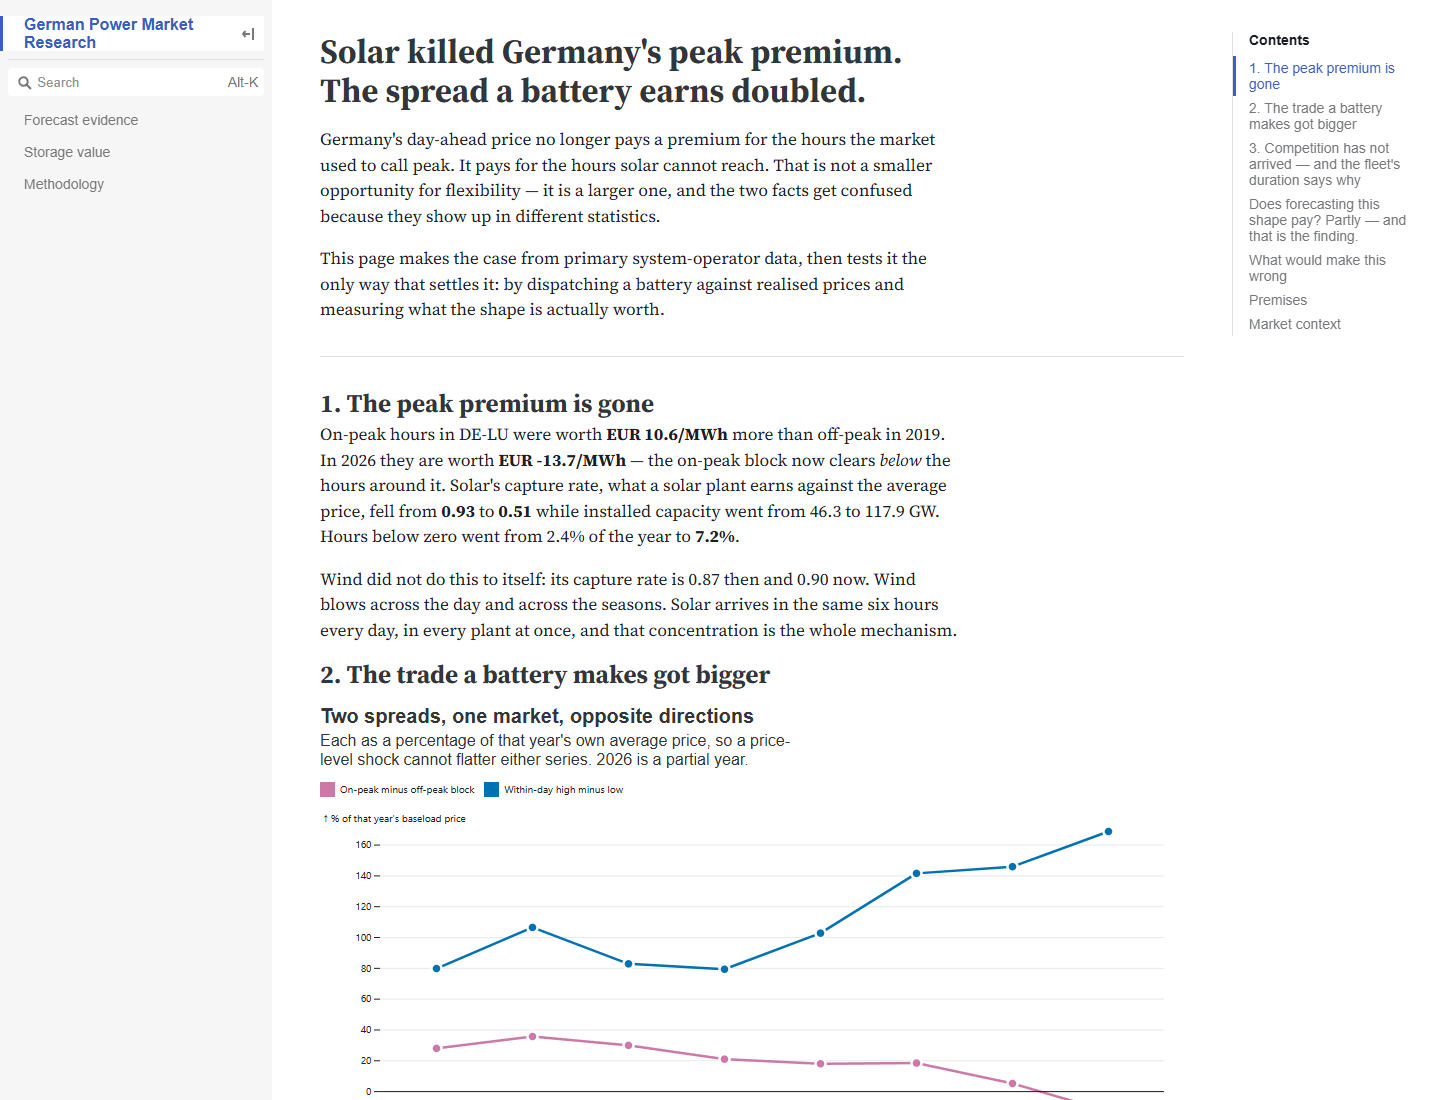
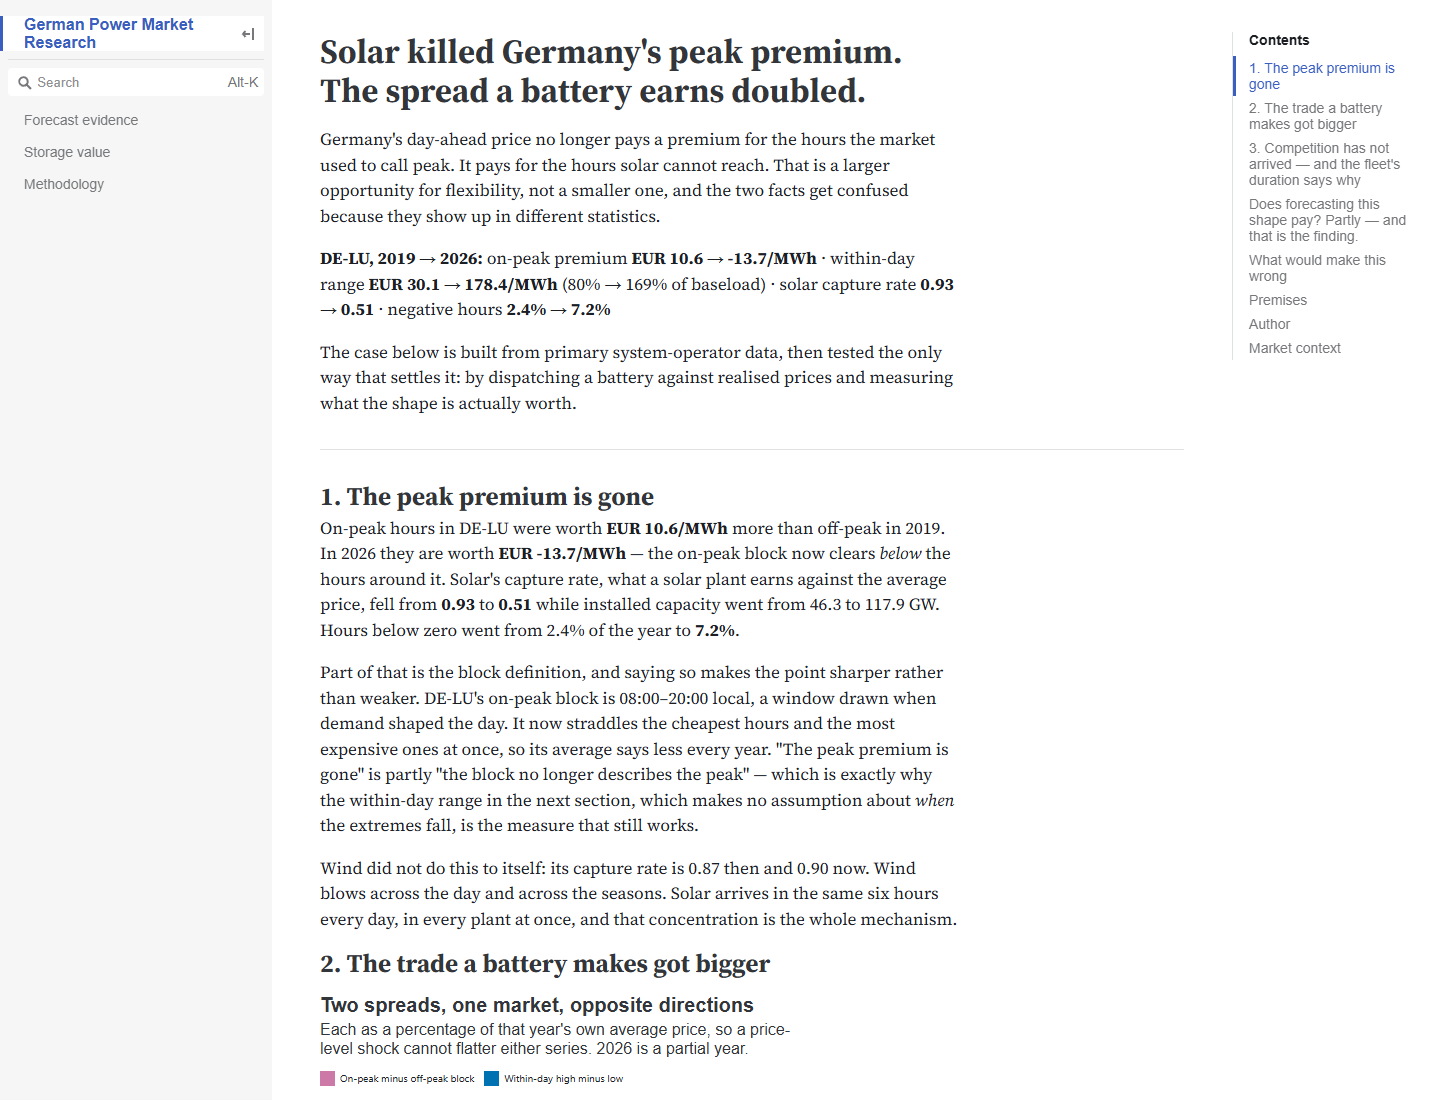
docs: answer the three objections the published site invited
An adversarial read of the live version found three places where a power-market
analyst would have pushed back, and all three had better answers sitting in the
committed data.

The page argued 2022 was "a price-level shock" while its own table showed 2022
as the best year for the battery, 487 against 451 EUR/MW/day, and never
acknowledged it. It now states that first and makes the real argument: 2026
reaches 95% of 2022's absolute daily range on a baseload price 55% lower, so
this spread does not leave with the gas price.

It argued storage competition had not arrived without mentioning the ~9.9 GW of
pumped hydro that arbitrages the same spread and has been flat since 2011 --
which is not a counterexample but the mechanism, since the capable fleet stood
still while the spread widened.

And it inferred household-storage composition from a duration ratio without
saying so. The inference now carries its evidence (duration held near 1.5 hours
through a fivefold build-out), its limitation (the provider publishes no
residential/grid-scale split) and the signal against it (1.47 to 1.56 hours in
two years).

Also: the 08:00-20:00 block definition is named as part of why the peak premium
reads as gone; the partial year's seasonal bias is quantified (+3.5% to +5.2%)
instead of labelled; the battery's total gross margin (~EUR 97,000/MW/year) gives
the forecast's EUR 4,400 a denominator; the page says why a forecast worth 5% was
[…]

diff --git a/site/index.md b/site/index.md
@@ -10,6 +10,19 @@ const yearly = [...await FileAttachment("data/capacity_price_yearly.parquet").pa
   .sort((a, b) => a.year.localeCompare(b.year));
 const shape = [...await FileAttachment("data/price_shape.parquet").parquet()];
 const marginYearly = [...await FileAttachment("data/battery_margin_yearly.parquet").parquet()];
+const capacity = [...await FileAttachment("data/capacity.parquet").parquet()];
+const yearlyCap = capacity.filter((d) => d.time_step === "yearly" && !d.is_planned);
+const capAt = (technology, period) => yearlyCap.find((d) => d.technology === technology && String(d.period) === period);
+const pumped = yearlyCap
+  .filter((d) => d.technology === "Hydro pumped storage")
+  .sort((a, b) => String(a.period).localeCompare(String(b.period)));
+const pumpedFirst = pumped[0];
+const pumpedLast = pumped[pumped.length - 1];
+const fleetHours = (period) => {
+  const power = capAt("Battery storage (power)", period);
+  const energy = capAt("Battery storage (capacity)", period);
+  return power && energy && power.value ? energy.value / power.value : null;
+};
 const first = yearly[0];
 const last = yearly[yearly.length - 1];
 const latestFull = yearly[yearly.length - 2];
@@ -19,6 +32,7 @@ const foresight4 = marginYearly
   .sort((a, b) => a.year.localeCompare(b.year));
 const fleetFirst = foresight4[0];
 const fleetLast = foresight4[foresight4.length - 1];
+const foresight = (period) => foresight4.find((d) => d.year === period);
 const eur = (v) => v.toLocaleString("en", {maximumFractionDigits: 0});
 const num = (v) => v.toFixed(1);
 const pct = (v) => `${v.toFixed(0)}%`;
@@ -26,12 +40,19 @@ const rate = (v) => v.toFixed(2);
 ```
 
 Germany's day-ahead price no longer pays a premium for the hours the market used
-to call peak. It pays for the hours solar cannot reach. That is not a smaller
-opportunity for flexibility — it is a larger one, and the two facts get confused
+to call peak. It pays for the hours solar cannot reach. That is a larger
+opportunity for flexibility, not a smaller one, and the two facts get confused
 because they show up in different statistics.
 
-This page makes the case from primary system-operator data, then tests it the
-only way that settles it: by dispatching a battery against realised prices and
+**DE-LU, ${first.year} → ${last.year}:** on-peak premium **EUR ${num(first.spread)}
+→ ${num(last.spread)}/MWh** · within-day range **EUR ${num(first.intraday_spread)}
+→ ${num(last.intraday_spread)}/MWh** (${pct(first.intraday_spread_pct_of_price)}
+→ ${pct(last.intraday_spread_pct_of_price)} of baseload) · solar capture rate
+**${rate(first.solar_capture_rate)} → ${rate(last.solar_capture_rate)}** ·
+negative hours **${num(first.negative_pct)}% → ${num(last.negative_pct)}%**
+
+The case below is built from primary system-operator data, then tested the only
+way that settles it: by dispatching a battery against realised prices and
 measuring what the shape is actually worth.
 
 ---
@@ -47,6 +68,14 @@ price, fell from **${rate(first.solar_capture_rate)}** to
 ${num(first.solar_capacity_gw)} to ${num(last.solar_capacity_gw)} GW. Hours
 below zero went from ${num(first.negative_pct)}% of the year to
 **${num(last.negative_pct)}%**.
+
+Part of that is the block definition, and saying so makes the point sharper
+rather than weaker. DE-LU's on-peak block is 08:00–20:00 local, a window drawn
+when demand shaped the day. It now straddles the cheapest hours and the most
+expensive ones at once, so its average says less every year. "The peak premium
+is gone" is partly "the block no longer describes the peak" — which is exactly
+why the within-day range in the next section, which makes no assumption about
+*when* the extremes fall, is the measure that still works.
 
 Wind did not do this to itself: its capture rate is
 ${rate(first.wind_capture_rate)} then and ${rate(last.wind_capture_rate)} now.
@@ -120,19 +149,37 @@ than before. A battery charges in a trough that did not used to exist and
 discharges into a peak that got sharper.
 
 Dispatching a 1 MW / 4 MWh battery against realised DE-LU prices with perfect
-foresight and one cycle a day puts a number on it:
+foresight and one cycle a day puts a number on it. EUR/MW/d is that battery's
+margin per megawatt per day; GW and GWh are Germany's installed battery fleet
+that year:
 
 ```js
 Inputs.table(
   foresight4.map((d) => ({
     Year: d.year === last.year ? `${d.year} (partial)` : d.year,
-    "EUR/MW/day": Math.round(d.eur_per_mw_day),
-    "Fleet GW": d.battery_power_gw,
-    "Fleet GWh": d.battery_energy_gwh,
+    "EUR/MW/d": Math.round(d.eur_per_mw_day),
+    GW: d.battery_power_gw,
+    GWh: d.battery_energy_gwh,
   })),
-  {format: {"Fleet GW": num, "Fleet GWh": num}, layout: "auto", rows: 12}
+  {format: {GW: num, GWh: num}, layout: "auto", rows: 12}
 )
 ```
+
+**${crisis.year} is still the best year in the table, and that is not a
+contradiction.** A battery is paid in euros, so ${crisis.year}'s EUR
+${eur(foresight(crisis.year).eur_per_mw_day)}/MW/day beats ${last.year}'s EUR
+${eur(fleetLast.eur_per_mw_day)}. The claim is not that today is richer than the
+gas crisis. It is that today's spread is reached from a *completely different
+place*: ${last.year} delivers **${pct((last.intraday_spread / crisis.intraday_spread) * 100)}
+of ${crisis.year}'s absolute daily range on a baseload price
+${pct(Math.abs(last.baseload_price / crisis.baseload_price - 1) * 100)} lower**.
+
+That distinction is the whole commercial argument. ${crisis.year}'s spread came
+from an expensive, volatile marginal unit, and it left with the gas price.
+${last.year}'s comes from the shape of the day, which is set by an installed
+base that is still being built. A spread that depends on a fuel shock is one a
+lender discounts; a spread that depends on 118 GW of solar is one they can
+underwrite.
 
 ## 3. Competition has not arrived — and the fleet's duration says why
 
@@ -140,20 +187,61 @@ Germany's battery fleet grew from ${num(fleetFirst.battery_power_gw)} GW to
 **${num(fleetLast.battery_power_gw)} GW** across this sample and the arbitrage
 value per MW did not compress. It rose.
 
-The fleet's own numbers suggest the reason. At
-${num(fleetLast.battery_power_gw)} GW and ${num(fleetLast.battery_energy_gwh)}
-GWh, its average duration is about
-**${(fleetLast.battery_energy_gwh / fleetLast.battery_power_gw).toFixed(1)}
-hours** — the signature of household storage behind the meter, sized to shift a
-household's own evening consumption, not of grid-scale assets bidding into the
-same midday trough this study trades. Capacity counted in gigawatts is not the
-same as capacity competing for this spread.
+**First, the incumbent nobody counts.** Germany has roughly
+${num(pumpedLast.value)} GW of pumped hydro arbitraging this exact spread, and it
+is not new: ${num(pumpedFirst.value)} GW in ${pumpedFirst.period}, the earliest
+year this provider's series covers, and essentially flat every year since. Storage competition did not begin with batteries. What that
+flatness means is that the incumbent fleet is not what changed: the spread
+widened while the longest-duration, most capable arbitrage fleet in the market
+stood still.
 
-This is an observation about a growing fleet, not a fitted competition model.
+**Second, the batteries that did arrive are the wrong shape for this trade.** At
+${num(fleetLast.battery_power_gw)} GW and ${num(fleetLast.battery_energy_gwh)}
+GWh, the fleet's average duration is about
+**${fleetHours(last.year).toFixed(2)} hours**. More telling than the level is
+that it barely moved while the fleet grew more than fivefold. GW and GWh are
+installed battery power and energy; Hours is the ratio, the fleet's average
+duration:
+
+```js
+Inputs.table(
+  ["2022", "2023", "2024", "2025", last.year].map((period) => ({
+    Year: period === last.year ? `${period} (partial)` : period,
+    GW: capAt("Battery storage (power)", period).value,
+    GWh: capAt("Battery storage (capacity)", period).value,
+    Hours: fleetHours(period),
+  })),
+  {
+    format: {
+      GW: num,
+      GWh: num,
+      Hours: (v) => v.toFixed(2),
+    },
+    layout: "auto",
+    rows: 6,
+  }
+)
+```
+
+A fleet whose duration holds near 1.5 hours through a fivefold build-out is not
+changing composition — it is adding more of the same thing. Roughly 1.5 hours is
+what a behind-the-meter home system is sized for: shifting a household's own
+evening consumption, not bidding a four-hour midday trough. Gigawatts installed
+is not the same as capacity competing for this spread.
+
+**What this argument rests on, and what would break it.** The provider publishes
+the fleet as one aggregate and does not split residential from grid-scale, so
+the composition here is inferred from the duration ratio rather than observed
+directly. The inference is testable and the register that would settle it, the
+Marktstammdatenregister, is outside this project's ingestion. Read the last two
+rows as the early signal against the argument: duration has ticked from
+${fleetHours("2024").toFixed(2)} to ${fleetHours(last.year).toFixed(2)} hours,
+which is what grid-scale entry looks like when it starts.
+
 Annual data cannot separate a fleet effect from the gas-price unwind or the
-weather. What it does establish is that compression has not yet reached the
-price at a fleet size where a shallow-duration explanation fits the data better
-than the absence of any effect at all.
+weather either. What the data does establish is narrow and worth stating plainly:
+compression has not yet reached the price, at a fleet size where a
+shallow-duration explanation fits better than no effect at all.
 
 ---
 
@@ -184,6 +272,11 @@ alternative — EUR ${num(ridgeScore.mae)}/MWh against EUR
 ${num(bestBaseline.mae)}/MWh, over ${run.scored_hours.toLocaleString("en")}
 scored hours.
 
+For scale, that battery's whole gross margin under Ridge is about **EUR
+${eur(base4.profit_eur_mw / sampleYears)}/MW per year** over the sample, before
+any operating, degradation or capital cost. Against that total, the forecast's
+contribution is the part worth arguing about.
+
 Converted into dispatch, that skill is worth **EUR
 ${eur(base4.incremental_vs_best_naive_eur_mw / sampleYears)}/MW per year**
 (EUR ${eur(base4.mean_daily_incremental_eur_mw)}/MW per day) more than repeating
@@ -196,6 +289,15 @@ deviation, which is what a forecast adds. Ridge loses to that naive on
 
 That ratio is the honest commercial summary, and it points away from where the
 effort went: **the shape is the asset; the forecast is a margin on top of it.**
+
+Which raises a fair question: why build the forecast at all? Because the
+number above is only trustworthy if the protocol producing it is. The 12:00
+gate, the vintage discipline and the walk-forward boundaries are what stop a
+model from quietly scoring itself on information no bidder held, and they are
+what turn "our model beats the market" into a claim someone can check. That
+discipline is the transferable part, and it is the reason this project publishes
+where the model loses as prominently as where it wins.
+
 Protocol and failure modes on the [forecast page](./forecast); dispatch, costs,
 stresses and downside on the [storage page](./battery).
 
@@ -206,7 +308,10 @@ stresses and downside on the [storage page](./battery).
   unit compresses the top of the day without touching the midday trough.
 - **The fleet's duration lengthens.** Section 3 rests on German storage being
   short and domestic. Grid-scale 2–4h additions attack exactly the trough this
-  trade depends on, and that build-out is underway.
+  trade depends on, and the first sign is already in the table there: average
+  duration ticked from ${fleetHours("2024").toFixed(2)} to
+  ${fleetHours(last.year).toFixed(2)} hours in two years. This is the risk to
+  watch, and it is measurable every quarter.
 - **Market design changes.** The move to 15-minute day-ahead products in October
   2025, and any change to negative-price support rules, alter both the trade and
   the measurement of it.
@@ -227,7 +332,15 @@ charge-then-discharge episode a day, with a two-episode case run and reported
 separately. The base case carries zero operating and degradation cost, and
 non-zero cases are rerun rather than folded in. Day-ahead arbitrage alone is a
 **lower bound** on a German battery's revenue: intraday and balancing markets
-are outside this study. Full definitions on the
+are outside this study.
+
+${last.year} is a partial year, and the direction of that bias is known rather
+than waved at. Within-day range is seasonal, peaking in late summer, so a
+January-to-September year runs above its own full-year average: measured on the
+complete years in this store, by **+4.0% (2022), +3.5% (2023) and +5.2%
+(2025)**. Discount ${last.year}'s range figures by roughly that much; it does
+not change the direction of anything above. Reproduce with
+`gpa.metrics.price.intraday_spread(period="month")`. Full definitions on the
 [methodology page](./methodology).
 
 **Sources.** Prices, load, generation and installed capacity come from
@@ -236,10 +349,15 @@ figures; Brazilian system data comes from ONS. Two figures on the storage page
 are external citations — BloombergNEF and the Bundesnetzagentur — dated where
 they appear.
 
-**Built solo, end to end:** ingestion across two public system-data providers
-covering four markets, leakage-safe walk-forward forecasting, the constrained
-dispatch and stress-testing engine, and this site.
-[github.com/Pedrods20](https://github.com/Pedrods20).
+## Author
+
+**Pedro Cabral.** Built solo, end to end: ingestion across two public
+system-data providers covering four markets, leakage-safe walk-forward
+forecasting, the constrained dispatch and stress-testing engine, and this site.
+
+Code, data and the full audit trail:
+**[github.com/Pedrods20/global-power-atlas](https://github.com/Pedrods20/global-power-atlas)**
+· profile: [github.com/Pedrods20](https://github.com/Pedrods20)
 
 ---
 
@@ -287,4 +405,6 @@ Plot.plot({
   color: var(--theme-foreground-muted);
 }
 main.observablehq > table { display: block; max-width: 100%; overflow-x: auto; }
+/* A reproduce command is one unbreakable token wider than a phone screen. */
+main.observablehq p code { overflow-wrap: anywhere; }
 </style>

diff --git a/README.md b/README.md
@@ -31,6 +31,8 @@ show up in different statistics.
 | Hours below zero | 2.4% | 0.8% | **7.2%** |
 | Installed solar | 46 GW | 63 | **118** |
 | Battery fleet | — | 4.2 GW | **21.1 GW / 32.9 GWh** |
+| Battery fleet average duration | — | 1.51 h | 1.56 h |
+| Pumped hydro (the incumbent) | 9.3 GW (2011) | 10.0 GW | 9.9 GW |
 | Arbitrage value, 1 MW / 4 MWh, perfect foresight | — | 487 EUR/MW/day | **451** |
 
 Three things follow, and each is on the site with its evidence.
@@ -38,16 +40,23 @@ Three things follow, and each is on the site with its evidence.
 1. **The block spread and the within-day range moved in opposite directions.** A
    fixed block contract is paid the first; a battery is paid the second. Reading
    only the block spread says storage arbitrage is dying exactly when it is not.
-2. **2022 was a price-level shock; what followed is a change in shape.** Scaled
-   by each year's own average price, the crisis year's daily range was no wider
-   than 2019's. The widening since is structural, and shape is what storage is
-   paid for. Solar did this; wind's capture rate barely moved, because wind
-   blows across the day and the seasons while solar arrives in the same six hours
-   in every plant at once.
-3. **21 GW of batteries have not compressed it yet**, and the fleet's ~1.6 hour
-   average duration suggests why: that is the signature of household storage
-   behind the meter, not of grid-scale assets bidding the same midday trough.
-   Gigawatts installed is not the same as capacity competing for this spread.
+2. **2022 was a price-level shock; what followed is a change in shape.** In
+   euros 2022 is still the best year for the battery (487 against 451 EUR/MW/day),
+   and that is not a contradiction: 2026 delivers **95% of 2022's absolute daily
+   range on a baseload price 55% lower**. A spread that came from a fuel shock
+   left with the gas price; a spread that comes from 118 GW of solar is one a
+   lender can underwrite. Solar did this, not wind — wind's capture rate barely
+   moved, because it blows across the day and the seasons while solar arrives in
+   the same six hours in every plant at once.
+3. **Storage competition has not compressed it yet**, and two things explain
+   why. Germany's ~9.9 GW of pumped hydro — the incumbent that actually arbitrages
+   this spread — has been flat since at least 2011, so the capable fleet did not
+   grow. And the batteries that did arrive are the wrong shape: average duration
+   held at 1.47–1.56 hours through a fivefold build-out, which is what a
+   behind-the-meter home system is sized for, not a four-hour midday trough. The
+   provider publishes no residential/grid-scale split, so that composition is
+   inferred from the duration ratio; the tick from 1.47 to 1.56 hours in two
+   years is the early signal against the argument.
 
 ## Does forecasting the shape pay? Partly — and that is the result
 
@@ -57,7 +66,8 @@ D-1** cuts day-ahead price error **24.3%** against the best naive alternative
 
 Converted into dispatch on a 1 MW / 4 MWh battery, that skill is worth about
 **EUR 4,400/MW per year** — EUR 12/MW on an average day — more than repeating
-the last similar day. That is roughly **5%** of the battery's gross margin. The
+the last similar day. Against that battery's whole gross margin of about **EUR
+97,000/MW per year** before costs, the forecast contributes roughly **5%**. The
 naive strategy earns the rest, because most of the value sits in the shape,
 which repeats, rather than in the day-to-day deviation, which is what a forecast
 adds. Ridge loses to that naive on **827 of 2,404 days**.
@@ -66,6 +76,12 @@ adds. Ridge loses to that naive on **827 of 2,404 days**.
 honest commercial summary, and it points away from where most of the engineering
 went — which is the sort of conclusion a portfolio is supposed to be willing to
 publish.
+
+So why build the forecast? Because that 5% is only trustworthy if the protocol
+producing it is. The 12:00 gate, the vintage discipline and the walk-forward
+boundaries are what stop a model from scoring itself on information no bidder
+held, and they are what turn "our model beats the market" into a claim someone
+can check. That discipline is the transferable part.
 
 Two further results are worth the click:
 

diff --git a/site/methodology.md b/site/methodology.md
@@ -47,6 +47,17 @@ leaves. Partial days are dropped rather than scaled, because a day the provider
 covered until noon has a genuinely smaller range and averaging it in would report
 a falling spread that is really a reporting gap.
 
+**Seasonality, and what a partial year costs.** The within-day range is
+seasonal: averaged over 2019-2025 it runs about 65-70 EUR/MWh in January and
+February against 113-134 in August and September, because a solar-shaped day has
+a deeper midday trough in summer. A year that ends in September therefore sits
+above its own full-year average. Measured on the complete years in this store,
+January-to-September runs **+4.0% (2022), +3.5% (2023) and +5.2% (2025)** above
+the full year, with 2019, 2020 and 2024 within ±4.5% in the other direction and
+2021 an outlier at −36% because the gas spike landed in its fourth quarter.
+Discount the current partial year's range figures by roughly that much. Reproduce
+with `gpa.metrics.price.intraday_spread(period="month")` over the committed store.
+
 Both series are published as a percentage of the same year's own average price.
 That normalisation is what separates a price-level shock from a change in daily
 shape; without it, 2022 dominates every chart and the structural change since is
@@ -255,6 +266,8 @@ reason each one was chosen and what it costs the result.
 | Costs | Zero in the base case; illustrative non-zero cases rerun separately | Rates are not calibrated German project estimates | Margins are gross of asset-specific costs and of all capital costs |
 | Daily cycling | One charge-then-discharge episode in the headline | The conservative reading of a one-cycle-a-day asset, and the binding constraint on almost every day in the sample | Understates a real German battery, which cycles more than once; the two-episode stress measures by how much, and shows the extra margin needs no forecast |
 | Revenue stack | Day-ahead arbitrage only | The only market this project ingests prices for | A lower bound on a German battery's revenue: continuous intraday and the balancing markets (FCR, aFRR, mFRR, tendered via [regelleistung.net](https://www.regelleistung.net/)) are not modelled, nor is the fact that capacity committed to balancing cannot simultaneously arbitrage |
+| Storage fleet composition | Inferred from the duration ratio, not observed | Energy-Charts publishes installed battery power and energy as one aggregate with no residential/grid-scale split, and the ratio is the only composition signal the store contains | The market view's third finding rests on ~1.5 hours being a home-storage signature. If the aggregate is in fact grid-scale heavy, the argument that competition has not arrived loses its mechanism, though not the observation that margin has not compressed. The Marktstammdatenregister would settle it and is outside this project's ingestion |
+| Storage competition set | Batteries and pumped hydro, both from the installed-capacity series | Pumped hydro arbitrages the same daily spread and is the incumbent a battery-only view would miss | Demand-side response, industrial flexibility and cross-border flexibility are not counted, so the competing fleet here is a lower bound |
 | Scope | Zonal, not nodal | The day-ahead auction clears at bidding-zone level | Congestion, basis and transmission constraints are outside the result |
 
 ## Quality controls
